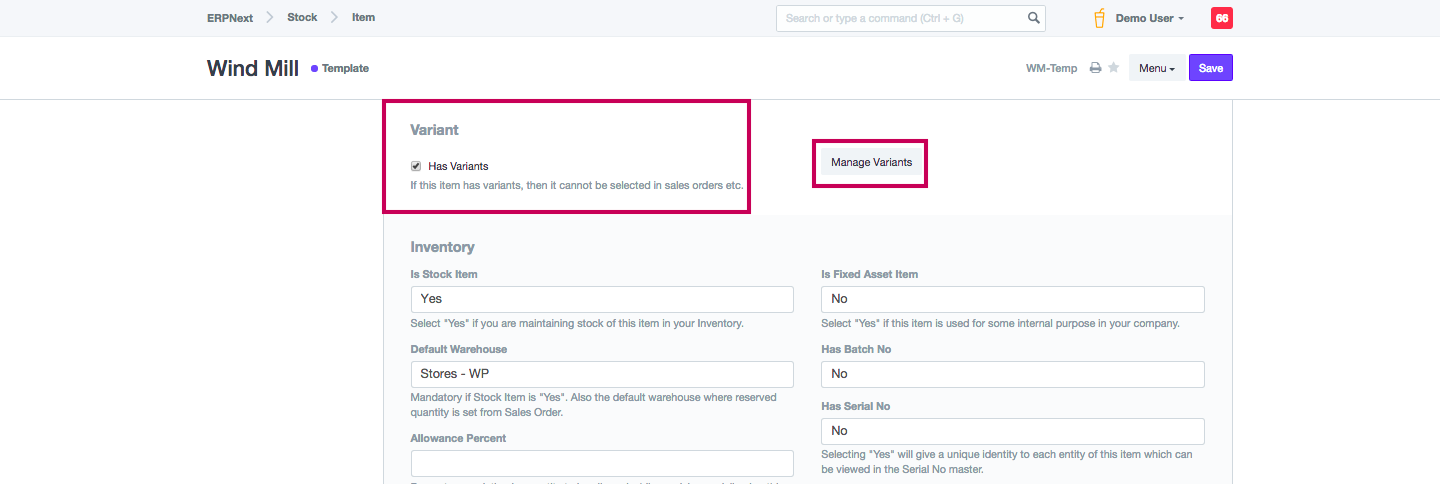
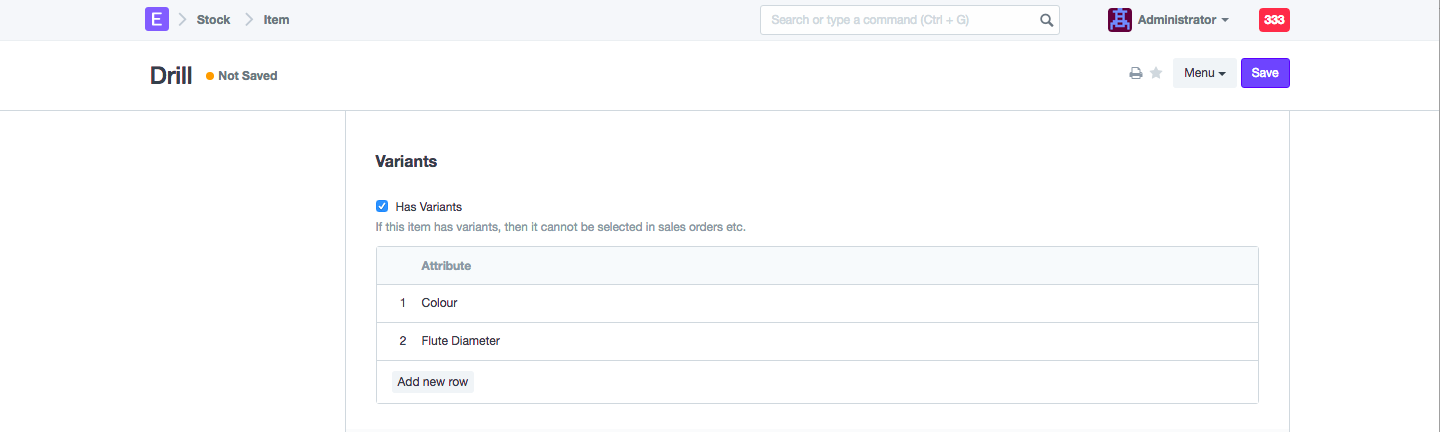
Updated Manual Page for Item Variant

diff --git a/manual_erpnext_com/www/contents/stock/item/item-variants.md b/manual_erpnext_com/www/contents/stock/item/item-variants.md
@@ -2,21 +2,21 @@ A Item Variant is a different version of a Item, such as differing sizes or diff
 Without Item variants, you would have to treat the small, medium and large versions of a t-shirt as three separate Items; 
 Item variants let you treat the small, medium and large versions of a t-shirt as variations of the same Item.
 
-To manage Item Variants in ERPNext, create an Item and check 'Has Variants'
+To use Item Variants in ERPNext, create an Item and check 'Has Variants'
 
-* The Item shall then be refered as a 'Template'
+* The Item shall then be referred as a 'Template'
 
-<img class="screenshot" alt="Manage Variants" src="/assets/manual_erpnext_com/img/stock/item-has-variants.png">
+<img class="screenshot" alt="Has Variants" src="/assets/manual_erpnext_com/img/stock/item-has-variants.png">
+
+On selecting 'Has Variants' a table shall appear. Specify the variant attributes for the Item in the table.
+In case the attribute has Numeric Values, you can specify the range and increment values here. 
+
+<img class="screenshot" alt="Valid Attributes" src="/assets/manual_erpnext_com/img/stock/item-attributes.png">
 
 > Note: You cannot make Transactions against a 'Template'
 
-To create 'Item Variants' against a 'Template' select 'Manage Variants'
+To create 'Item Variants' against a 'Template' select 'Make Variants'
 
-<img class="screenshot" alt="Manage Variants" src="/assets/manual_erpnext_com/img/stock/manage-variants.png">
+<img class="screenshot" alt="Make Variants" src="/assets/manual_erpnext_com/img/stock/make-variant.png">
 
-* Mention Item Attributes and Attribute Values. Eg. Item Attribute as Colour and Attribute Value as Red 
-* Click on 'Generate Combinations'
-* A list of all possible cobinations of Variants based on Item Attributes will be generated by the system & shown on the Variant table.
-* If you do not wish to create a certain variant combination, delete that row.
-* If you wish to change the Item Code for a Variant, select that row and rename the Variant
-* Click on 'Create Variant' to create and save the Variants.
+<img class="screenshot" alt="Make Variants" src="/assets/manual_erpnext_com/img/stock/make-variant-1.png">
